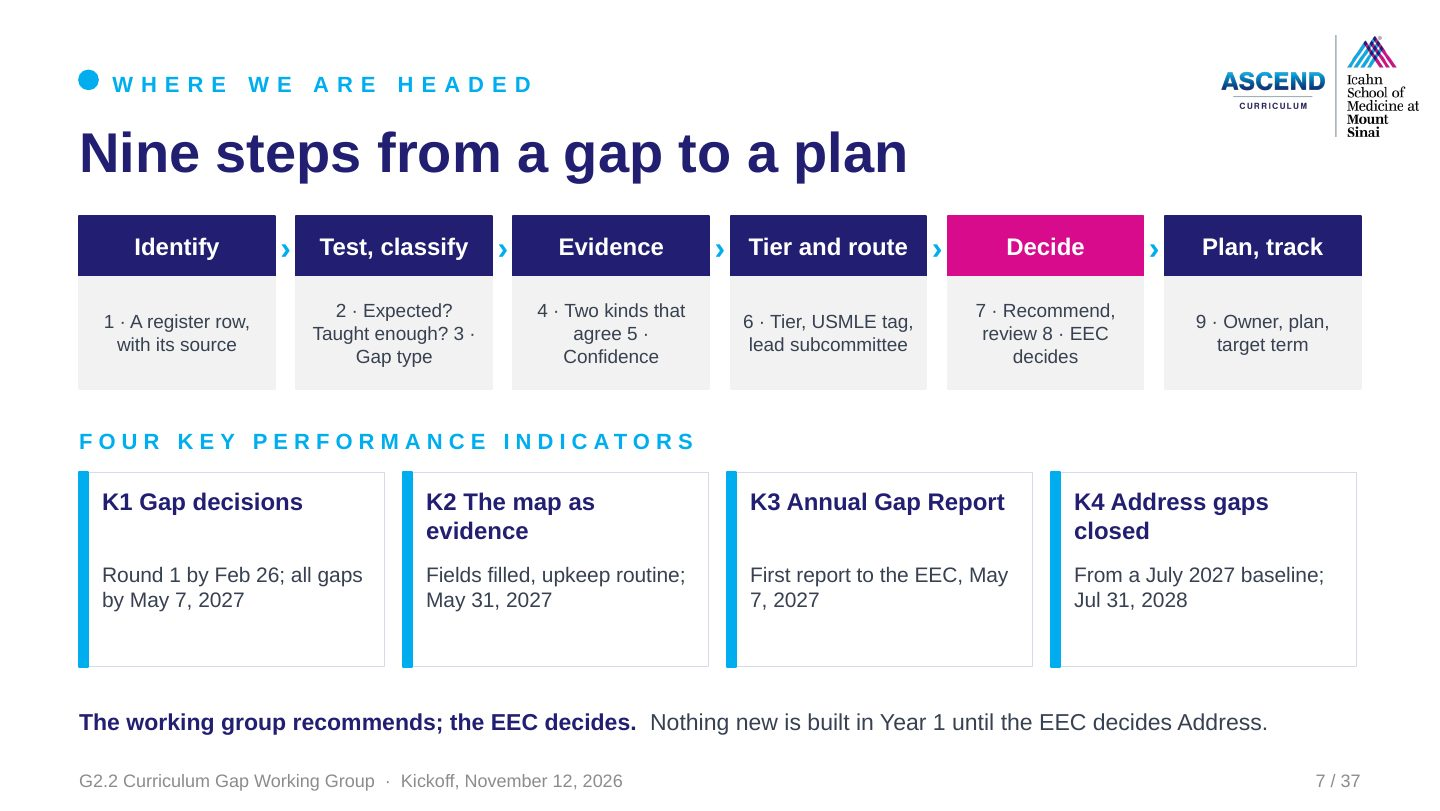
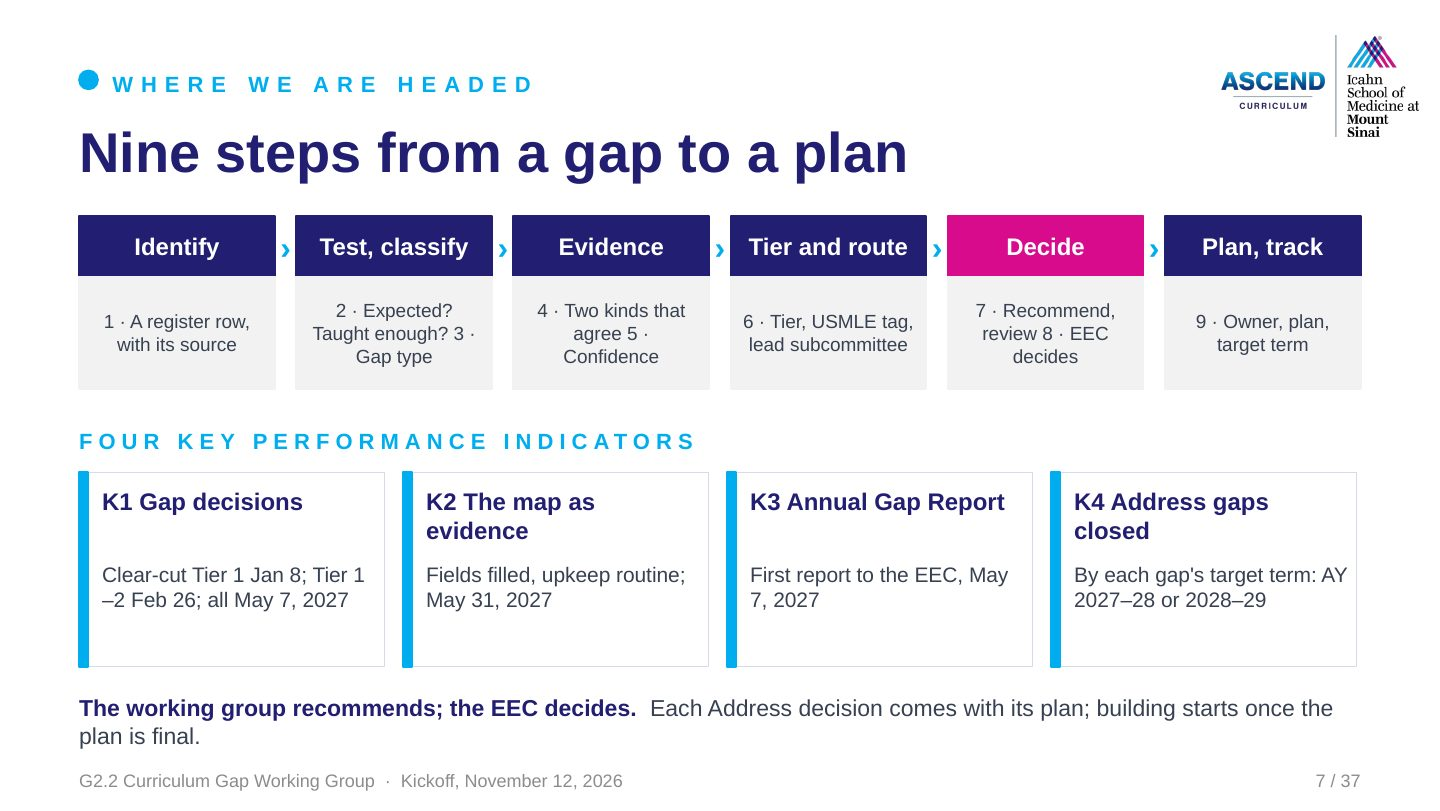
G2.2 kickoff guides: new decision-to-build timeline
Slides 6, 7, 26, 27, 34, 36, 37 and their facilitator notes: clear-cut Tier 1
gaps decided at the Jan 8 EEC meeting (after the December subcommittees), the
rest by e-vote Feb 15-26; each Address decision comes with its plan (round 1
final Mar 31); K4 closed by each gap's target term (AY 2027-28 or 2028-29);
evidence for clear-cut gaps due Dec 1; meeting 2 about Dec 3.
Rebuilt from Styled pages/g22-kickoff-sinai-pptx (build_all.sh) and
tools/kickoff_live_build.py; the shared deck file was rebuilt too.

Claude-Session: https://claude.ai/code/session_01EYE1rF8cjmHzTBuMfk6f8y

Changed region(s): [[0.0312, 0.8631, 0.9375, 0.9248], [0.75, 0.6782, 0.9375, 0.7707], [0.0625, 0.6782, 0.25, 0.7707]]

diff --git a/kickoff-g22/facilitator.html b/kickoff-g22/facilitator.html
@@ -152,8 +152,8 @@ button.rv:disabled{opacity:.6;cursor:wait}
 <section>
 <div class="band"><span class="ic">&#128075;</span><strong>I. Welcome and the Charge</strong><span class="tm">10:00–10:07</span></div>
 <div class="step" id="slide-5"><div class="numrow"><span class="num">Slide 5 of 37</span><button type="button" class="rv" data-n="5">Reveal to members</button></div><figure class="slide"><img src="slides/slide-05.jpg" alt="Slide 5: introductions prompt" loading="lazy"></figure><div class="fac"><div class="say"><span class="tag">Say</span><p>Invite introductions. Note each person&#x27;s gap; any gap not already on the register goes in the brainstorm capture table.</p></div><div class="cues"><div class="cue c-tip"><b>TIP</b>Keep introductions to about 45 seconds each. Gaps not on the register go in the brainstorm capture table.</div></div></div><details class="plain member-sees"><summary>What members see under this slide</summary><div class="box b-turn"><span class="tag">Your turn</span><p>About 45 seconds: your name, your role, and <b>one gap you see in the part of the curriculum you know best</b>. If it is not on the register, it becomes the first entry in the brainstorm.</p></div></details></div>
-<div class="step" id="slide-6"><div class="numrow"><span class="num">Slide 6 of 37</span><button type="button" class="rv" data-n="6">Reveal to members</button></div><figure class="slide"><img src="slides/slide-06.jpg" alt="Slide 6: the Year 1 charge" loading="lazy"></figure><div class="fac"><div class="say"><span class="tag">Say</span><p>Known gaps have had no single owner and no documented decision, so they carry over from one review cycle to the next. Our charge for Year 1 is to give every gap on the register a documented decision through the governance we already have. Two rounds: the Tier 1 and Tier 2 gaps by EEC e-vote in February, and the Monitor gaps at the May 7 EEC, when the first Annual Curriculum Gap Report goes to the EEC. Emphasize: the working group recommends; PCCS, CCS and CIS review; the EEC decides.</p></div><div class="cues"></div></div><details class="plain member-sees"><summary>What members see under this slide</summary><p>In Year 1 every gap on the register gets an owner, evidence, a tier, a USMLE tag, a route and an EEC decision, in two rounds: the Tier 1 and Tier 2 gaps by EEC e-vote, <b>February 15–26, 2027</b>, and the Monitor gaps at the <b>May 7, 2027</b> EEC, with the first Annual Curriculum Gap Report.</p><div class="box b-key"><span class="tag">Key point</span><div class="li"><span class="mk">•</span><div>The working group recommends; PCCS, CCS and CIS review; <mark>the EEC decides</mark>.</div></div><div class="li"><span class="mk">•</span><div>Plans to close Address gaps follow, tracked from July 2027.</div></div></div></details></div>
-<div class="step" id="slide-7"><div class="numrow"><span class="num">Slide 7 of 37</span><button type="button" class="rv" data-n="7">Reveal to members</button></div><figure class="slide"><img src="slides/slide-07.jpg" alt="Slide 7: nine steps from a gap to a plan" loading="lazy"></figure><div class="fac"><div class="say"><span class="tag">Say</span><p>This is the path every gap takes this year, in nine steps. One: it is identified and gets a register row with its source. Two: the gap test, whether we are expected to teach it and how much we teach now. Three: its type. Four and five: its owner gathers two kinds of evidence, and we judge how confident we are; a mapping issue goes to the map team, not to the EEC. Six: a tier, a USMLE tag and the subcommittee that leads it. Seven and eight: the owner drafts a recommendation, the subcommittee reviews it, and the EEC decides Address, Defer or Monitor. Nine: Address gaps get an owner, a plan and a target term, tracked from a July 2027 baseline. The Review steps tab on the dashboard has every step in detail. Our four key performance indicators follow that path: the decisions, the curriculum map as the evidence base, the Annual Curriculum Gap Report, and closing the Address gaps.</p></div><div class="cues"><div class="cue c-tip"><b>TIP</b>About 2 minutes. The picture only; the rules come next.</div></div></div><details class="plain member-sees"><summary>What members see under this slide</summary><p>Every gap follows the same nine steps: 1 identify; 2 the gap test; 3 its type; 4 two kinds of evidence; 5 confidence; 6 tier, USMLE tag and route; 7 recommendation and subcommittee review; 8 the EEC decision; 9 the plan and tracking. The four key performance indicators follow that path. <a href="https://sinaiascend.github.io/Dashboard---Education-to-Impact/#g22/steps" target="_blank" rel="noopener">Each step in detail (dashboard, Review steps)</a>.</p></details></div>
+<div class="step" id="slide-6"><div class="numrow"><span class="num">Slide 6 of 37</span><button type="button" class="rv" data-n="6">Reveal to members</button></div><figure class="slide"><img src="slides/slide-06.jpg" alt="Slide 6: the Year 1 charge" loading="lazy"></figure><div class="fac"><div class="say"><span class="tag">Say</span><p>Known gaps have had no single owner and no documented decision, so they carry over from one review cycle to the next. Our charge for Year 1 is to give every gap on the register a documented decision through the governance we already have. Two rounds: the Tier 1 and Tier 2 gaps first, the clear-cut ones at the January 8 EEC meeting and the rest by EEC e-vote in February, each Address decision with its plan; then the Monitor gaps at the May 7 EEC, when the first Annual Curriculum Gap Report goes to the EEC. Emphasize: the working group recommends; PCCS, CCS and CIS review; the EEC decides.</p></div><div class="cues"></div></div><details class="plain member-sees"><summary>What members see under this slide</summary><p>In Year 1 every gap on the register gets an owner, evidence, a tier, a USMLE tag, a route and an EEC decision, in two rounds: the Tier 1 and Tier 2 gaps by EEC e-vote, <b>February 15–26, 2027</b>, and the Monitor gaps at the <b>May 7, 2027</b> EEC, with the first Annual Curriculum Gap Report.</p><div class="box b-key"><span class="tag">Key point</span><div class="li"><span class="mk">•</span><div>The working group recommends; PCCS, CCS and CIS review; <mark>the EEC decides</mark>.</div></div><div class="li"><span class="mk">•</span><div>Plans to close Address gaps follow, tracked from July 2027.</div></div></div></details></div>
+<div class="step" id="slide-7"><div class="numrow"><span class="num">Slide 7 of 37</span><button type="button" class="rv" data-n="7">Reveal to members</button></div><figure class="slide"><img src="slides/slide-07.jpg" alt="Slide 7: nine steps from a gap to a plan" loading="lazy"></figure><div class="fac"><div class="say"><span class="tag">Say</span><p>This is the path every gap takes this year, in nine steps. One: it is identified and gets a register row with its source. Two: the gap test, whether we are expected to teach it and how much we teach now. Three: its type. Four and five: its owner gathers two kinds of evidence, and we judge how confident we are; a mapping issue goes to the map team, not to the EEC. Six: a tier, a USMLE tag and the subcommittee that leads it. Seven and eight: the owner drafts a recommendation, the subcommittee reviews it, and the EEC decides Address, Defer or Monitor. Nine: Address gaps get an owner, a plan and a target term, approved with the decision; round 1 plans are final by March 31, when building starts, and each gap is closed by its target term. The Review steps tab on the dashboard has every step in detail. Our four key performance indicators follow that path: the decisions, the curriculum map as the evidence base, the Annual Curriculum Gap Report, and closing the Address gaps.</p></div><div class="cues"><div class="cue c-tip"><b>TIP</b>About 2 minutes. The picture only; the rules come next.</div></div></div><details class="plain member-sees"><summary>What members see under this slide</summary><p>Every gap follows the same nine steps: 1 identify; 2 the gap test; 3 its type; 4 two kinds of evidence; 5 confidence; 6 tier, USMLE tag and route; 7 recommendation and subcommittee review; 8 the EEC decision; 9 the plan and tracking. The four key performance indicators follow that path. <a href="https://sinaiascend.github.io/Dashboard---Education-to-Impact/#g22/steps" target="_blank" rel="noopener">Each step in detail (dashboard, Review steps)</a>.</p></details></div>
 </section>
 <section>
 <div class="band"><span class="ic">&#9878;</span><strong>II. The Rules: Gap Test, Evidence, Tiers and Routes</strong><span class="tm">10:07–10:17</span></div>
@@ -176,7 +176,7 @@ button.rv:disabled{opacity:.6;cursor:wait}
 <div class="step" id="slide-24"><div class="numrow"><span class="num">Slide 24 of 37</span><button type="button" class="rv" data-n="24">Reveal to members</button></div><figure class="slide"><img src="slides/slide-24.jpg" alt="Slide 24: Reports from directors and leads: pros and cons" loading="lazy"></figure><div class="fac"><div class="say"><span class="tag">Say</span><p>Reports from directors and AOC and thread leads come from the people closest to the content, who often know the fix and who could teach it. The limits: one viewpoint, which may reflect advocacy, so a report always needs a second kind of evidence. The nutrition gap was flagged by leads and confirmed against the JAMA nutrition competencies.</p></div><div class="cues"></div></div><details class="plain member-sees"><summary>What members see under this slide</summary><p class="skim">Pros and cons for reference; we will move through these quickly.</p><p>A director's report is a valid starting point, but it needs a second kind of evidence to confirm the gap.</p></details></div>
 <div class="step" id="slide-25"><div class="numrow"><span class="num">Slide 25 of 37</span><button type="button" class="rv" data-n="25">Reveal to members</button></div><figure class="slide"><img src="slides/slide-25.jpg" alt="Slide 25: what the October pilot showed" loading="lazy"></figure><div class="fac"><div class="say"><span class="tag">Say</span><p>In October we tested the method on four gaps. Two were confirmed: nutrition, which we now scope to clinical nutrition skills because Step 1 nutrition is above national, and the Emergency Medicine shelf pattern. Two were mapping issues: palliative care preparation and point-of-care ultrasound are taught or experienced but not tagged. The lesson: the map alone over-reports gaps, so every gap gets its two-source check before we triage it.</p></div><div class="cues"></div></div><details class="plain member-sees"><summary>What members see under this slide</summary><div class="box b-note"><span class="tag">Note</span><p>Of four gaps tested in October, two were confirmed (nutrition, the Emergency Medicine shelf pattern) and two were <mark>mapping issues</mark>: the content is taught but not tagged. The two-source check runs before every triage.</p></div></details></div>
 <div class="step" id="slide-26"><div class="numrow"><span class="num">Slide 26 of 37</span><button type="button" class="rv" data-n="26">Reveal to members</button></div><figure class="slide"><img src="slides/slide-26.jpg" alt="Slide 26: tiers and routes" loading="lazy"></figure><div class="fac"><div class="say"><span class="tag">Say</span><p>Only topics LCME Standard 7 names get a tier, ordered by when the standard applies. Tier 1 is required now, plus nutrition, which the USMLE tests and the 2027–28 standard names. Tier 2 is required by 2027–28: AI in medicine and the assessment of professionalism and ethics. Every other gap is Monitor. Tier 1 and Tier 2 are decided by EEC e-vote in February; Monitor gaps at the May 7 EEC. Routing: the USMLE tag decides between PCCS and CCS; clinical-skills gaps go to the Clinical Competency group; CIS reviews only AOC and thread structure; the EEC decides every gap.</p></div><div class="cues"></div></div><details class="plain member-sees"><summary>What members see under this slide</summary><p><b>Tier 1</b>: named in the 2026–27 LCME Standard 7, plus nutrition. <b>Tier 2</b>: named in the 2027–28 Standard 7. <b>Monitor</b>: every other gap. Routing: the USMLE tag decides between PCCS (Step 1) and CCS (Step 2 CK); clinical-skills gaps go to the Clinical Competency group; CIS reviews only AOC and thread structure; the EEC decides every gap.</p></details></div>
-<div class="step" id="slide-27"><div class="numrow"><span class="num">Slide 27 of 37</span><button type="button" class="rv" data-n="27">Reveal to members</button></div><figure class="slide"><img src="slides/slide-27.jpg" alt="Slide 27: Address, Defer or Monitor: proposed status rules" loading="lazy"></figure><div class="fac"><div class="say"><span class="tag">Say</span><p>These are the three decisions the EEC can make, with proposed rules for which one we recommend; we ask the group to confirm them today. Address when the gap is confirmed and on Tier 1 or Tier 2, or when a confirmed Monitor gap shows our students below national or missing a required clinical experience; it needs an owner, a plan and a target term by June 30. Defer when the gap is confirmed but closing it depends on something already scheduled, such as the Nutrition Content Area Director&#x27;s appointment; it needs a reason and a return date. Monitor when we have one kind of evidence only, a national norm only, or outcomes at or above national; it names what to watch and a review date. Mapping issues and unsupported gaps need no decision: a map correction, or removal with the reason.</p></div><div class="cues"><div class="cue c-tip"><b>TIP</b>Ask for agreement on these rules; record changes. They become part of register version 1.</div></div></div><details class="plain member-sees"><summary>What members see under this slide</summary><div class="box b-turn"><span class="tag">For the group to confirm</span><p><b>Address</b>: confirmed, and Tier 1 or Tier 2; or a confirmed Monitor gap where our students score below national or miss a required clinical experience. <b>Defer</b>: confirmed, but closing it depends on a change already scheduled. <b>Monitor</b>: one kind of evidence only, a national norm only, or outcomes at or above national. Mapping issues and unsupported gaps need no decision.</p></div><p>Each decision is recorded with its reason; the EEC decides each gap (definitions in charter Appendix E).</p></details></div>
+<div class="step" id="slide-27"><div class="numrow"><span class="num">Slide 27 of 37</span><button type="button" class="rv" data-n="27">Reveal to members</button></div><figure class="slide"><img src="slides/slide-27.jpg" alt="Slide 27: Address, Defer or Monitor: proposed status rules" loading="lazy"></figure><div class="fac"><div class="say"><span class="tag">Say</span><p>These are the three decisions the EEC can make, with proposed rules for which one we recommend; we ask the group to confirm them today. Address when the gap is confirmed and on Tier 1 or Tier 2, or when a confirmed Monitor gap shows our students below national or missing a required clinical experience; it needs an owner, a plan and a target term, approved with the decision and final by March 31 for round 1. Defer when the gap is confirmed but closing it depends on something already scheduled, such as the Nutrition Content Area Director&#x27;s appointment; it needs a reason and a return date. Monitor when we have one kind of evidence only, a national norm only, or outcomes at or above national; it names what to watch and a review date. Mapping issues and unsupported gaps need no decision: a map correction, or removal with the reason.</p></div><div class="cues"><div class="cue c-tip"><b>TIP</b>Ask for agreement on these rules; record changes. They become part of register version 1.</div></div></div><details class="plain member-sees"><summary>What members see under this slide</summary><div class="box b-turn"><span class="tag">For the group to confirm</span><p><b>Address</b>: confirmed, and Tier 1 or Tier 2; or a confirmed Monitor gap where our students score below national or miss a required clinical experience. <b>Defer</b>: confirmed, but closing it depends on a change already scheduled. <b>Monitor</b>: one kind of evidence only, a national norm only, or outcomes at or above national. Mapping issues and unsupported gaps need no decision.</p></div><p>Each decision is recorded with its reason; the EEC decides each gap (definitions in charter Appendix E).</p></details></div>
 <div class="step" id="slide-28"><div class="numrow"><span class="num">Slide 28 of 37</span><button type="button" class="rv" data-n="28">Reveal to members</button></div><figure class="slide"><img src="slides/slide-28.jpg" alt="Slide 28: how G2.2 and G3.1 fit together" loading="lazy"></figure><div class="fac"><div class="say"><span class="tag">Say</span><p>At its November 4 kickoff the Emerging Topics group sorted its starting list with the same rule; topics it called gaps come to our register. Anything we find is beyond what the standards expect goes the other way, to G3.1, which the same co-leads run.</p></div><div class="cues"></div></div><details class="plain member-sees"><summary>What members see under this slide</summary><div class="box b-note"><span class="tag">Note</span><p>Topics the Emerging Topics group sorted as gaps at its November 4 kickoff come to this register; anything we find is beyond the standards goes to G3.1.</p></div></details></div>
 </section>
 <section>
@@ -227,13 +227,13 @@ button.rv:disabled{opacity:.6;cursor:wait}
 <section>
 <div class="band"><span class="ic">&#128203;</span><strong>V. Owners, the Assignment and the Charter</strong><span class="tm">10:45–10:55</span></div>
 <div class="step" id="slide-33"><div class="numrow"><span class="num">Slide 33 of 37</span><button type="button" class="rv" data-n="33">Reveal to members</button></div><figure class="slide"><img src="slides/slide-33.jpg" alt="Slide 33: what a gap owner does" loading="lazy"></figure><div class="fac"><div class="say"><span class="tag">Say</span><p>Before we confirm owners, what the job is. A gap owner gathers the two kinds of evidence, with the Office of Curricular Affairs pulling the data; confirms the USMLE tag; and drafts a recommendation with its reason. Owning a gap does not mean fixing it: if the EEC decides Address, the plan is made with the module and clerkship directors. Then go back to the Tier 1 and Tier 2 slides and confirm an owner for each and record them.</p></div><div class="cues"><div class="cue c-tip"><b>TIP</b>Go back to slides 29 and 30 and confirm an owner for each Tier 1 and Tier 2 gap.</div></div></div><details class="plain member-sees"><summary>What members see under this slide</summary><p>A gap owner gathers the two kinds of evidence (the Office of Curricular Affairs pulls the data), confirms the USMLE tag and drafts a recommendation. Owning a gap does not mean fixing it: plans to close Address gaps are made with module and clerkship directors.</p></details></div>
-<div class="step" id="slide-34"><div class="numrow"><span class="num">Slide 34 of 37</span><button type="button" class="rv" data-n="34">Reveal to members</button></div><figure class="slide"><img src="slides/slide-34.jpg" alt="Slide 34: your assignment" loading="lazy"></figure><div class="fac"><div class="say"><span class="tag">Say</span><p>Three deadlines. Within one week, confirm your gaps: reply to Mizuki Wada with the gaps you own and anything you would add or move, with its source. By the December meeting, say which two kinds of evidence you will use for each gap you own and ask the Office of Curricular Affairs for any data pulls. By January 15, complete the evidence and the USMLE tag and draft a recommendation for each Tier 1 and Tier 2 gap you own; we triage them at the meeting around January 20, before the February subcommittee meetings.</p></div><div class="cues"><div class="cue c-tip"><b>TIP</b>Confirm the December meeting date before reading the deadlines.</div></div></div><details class="plain member-sees"><summary>What members see under this slide</summary><p>Three deadlines.</p><p><b>Within one week of the kickoff:</b></p><div class="ck"><span class="mk">&#9744;</span><div><b>Confirm your gaps.</b> Reply to Mizuki Wada with the gaps you own, and any gap you would add or move, with its source.</div></div><p style="margin-top:10px"><b>Before the December meeting:</b></p><div class="ck"><span class="mk">&#9744;</span><div><b>Plan the evidence.</b> For each gap you own, name the two kinds of evidence you will use.</div></div><div class="ck"><span class="mk">&#9744;</span><div><b>Ask for data.</b> Request any data pulls from the Office of Curricular Affairs (aggregate data only).</div></div><p style="margin-top:10px"><b>By January 15, 2027:</b></p><div class="ck"><span class="mk">&#9744;</span><div><b>Complete the evidence.</b> Two kinds of evidence for each Tier 1 and Tier 2 gap you own.</div></div><div class="ck"><span class="mk">&#9744;</span><div><b>Tag and recommend.</b> Confirm the USMLE tag and draft a recommendation (Address, Defer or Monitor, with the reason). The group triages them at the meeting around January 20.</div></div></details></div>
+<div class="step" id="slide-34"><div class="numrow"><span class="num">Slide 34 of 37</span><button type="button" class="rv" data-n="34">Reveal to members</button></div><figure class="slide"><img src="slides/slide-34.jpg" alt="Slide 34: your assignment" loading="lazy"></figure><div class="fac"><div class="say"><span class="tag">Say</span><p>Three deadlines. Within one week, confirm your gaps: reply to Mizuki Wada with the gaps you own and anything you would add or move, with its source. By December 1, owners of the clear-cut Tier 1 gaps bring the evidence and a draft Address plan, so those gaps can go to the December subcommittee meetings and the January 8 EEC; ask the Office of Curricular Affairs for any data pulls by then. By January 15, complete the evidence, the USMLE tag, a recommendation and a draft Address plan for each other Tier 1 and Tier 2 gap you own; we triage them at the meeting around January 20, before the February subcommittee meetings.</p></div><div class="cues"><div class="cue c-tip"><b>TIP</b>Confirm the December meeting date before reading the deadlines.</div></div></div><details class="plain member-sees"><summary>What members see under this slide</summary><p>Three deadlines.</p><p><b>Within one week of the kickoff:</b></p><div class="ck"><span class="mk">&#9744;</span><div><b>Confirm your gaps.</b> Reply to Mizuki Wada with the gaps you own, and any gap you would add or move, with its source.</div></div><p style="margin-top:10px"><b>Before the December meeting:</b></p><div class="ck"><span class="mk">&#9744;</span><div><b>Plan the evidence.</b> For each gap you own, name the two kinds of evidence you will use.</div></div><div class="ck"><span class="mk">&#9744;</span><div><b>Ask for data.</b> Request any data pulls from the Office of Curricular Affairs (aggregate data only).</div></div><p style="margin-top:10px"><b>By January 15, 2027:</b></p><div class="ck"><span class="mk">&#9744;</span><div><b>Complete the evidence.</b> Two kinds of evidence for each Tier 1 and Tier 2 gap you own.</div></div><div class="ck"><span class="mk">&#9744;</span><div><b>Tag and recommend.</b> Confirm the USMLE tag and draft a recommendation (Address, Defer or Monitor, with the reason). The group triages them at the meeting around January 20.</div></div></details></div>
 <div class="step" id="slide-35"><div class="numrow"><span class="num">Slide 35 of 37</span><button type="button" class="rv" data-n="35">Reveal to members</button></div><figure class="slide"><img src="slides/slide-35.jpg" alt="Slide 35: the charter: what it commits us to" loading="lazy"></figure><div class="fac"><div class="say"><span class="tag">Say</span><p>The charter went to the plan&#x27;s Change Log on November 13 and is on the G2.2 page of the dashboard. It follows the plan&#x27;s standard outline: eleven sections and eight appendices. Look first at your own row in the members section, which says what you own, and at Appendix D, the register we just walked. Appendices A to C hold the rules we used today. Send any comments to Mizuki Wada; changes to the charter or the KPIs go through the Change Log.</p></div><div class="cues"></div></div><details class="plain member-sees"><summary>What members see under this slide</summary><p><a class="chlink" href="https://sinaiascend.github.io/Dashboard---Education-to-Impact/docs/g22-charter.html" target="_blank" rel="noopener">&#128196; Read the charter</a></p><p>The charter follows the plan's standard outline: eleven sections and eight appendices. Look first at your own row in section 7 (what you own) and at Appendix D (the register). Comments go to Mizuki Wada; changes to the charter or the KPIs go through the plan's Change Log.</p></details></div>
 </section>
 <section>
 <div class="band"><span class="ic">&#9989;</span><strong>VI. Wrap-up and What Comes Next</strong><span class="tm">10:55–11:00</span></div>
-<div class="step" id="slide-36"><div class="numrow"><span class="num">Slide 36 of 37</span><button type="button" class="rv" data-n="36">Reveal to members</button></div><figure class="slide"><img src="slides/slide-36.jpg" alt="Slide 36: roadmap to the May EEC" loading="lazy"></figure><div class="fac"><div class="say"><span class="tag">Say</span><p>Each meeting ends at a fixed point, and the work between meetings produces what the next one needs. Today&#x27;s register and owners feed the evidence due January 15, which feeds the February subcommittee meetings and the EEC e-vote. After Year 1, the Annual Curriculum Gap Report keeps gaps visible every year.</p></div><div class="cues"></div></div><details class="plain member-sees"><summary>What members see under this slide</summary><p>Each meeting ends at a fixed point, and the work between meetings produces what the next one needs. Today's register and owners feed the evidence due January 15, which feeds the February subcommittee meetings and the EEC e-vote.</p></details></div>
-<div class="step" id="slide-37"><div class="numrow"><span class="num">Slide 37 of 37</span><button type="button" class="rv" data-n="37">Reveal to members</button></div><figure class="slide"><img src="slides/slide-37.jpg" alt="Slide 37: decisions and next meeting" loading="lazy"></figure><div class="fac"><div class="say"><span class="tag">Say</span><p>Read back the decisions, then each action with one owner and one date, and confirm the December meeting date. Close: In December we hear each owner&#x27;s evidence plan and welcome the Nutrition Content Area Director.</p></div><div class="cues"><div class="cue c-tip"><b>TIP</b>Read back each action with one owner and one date. Confirm the December date.</div></div></div></div>
+<div class="step" id="slide-36"><div class="numrow"><span class="num">Slide 36 of 37</span><button type="button" class="rv" data-n="36">Reveal to members</button></div><figure class="slide"><img src="slides/slide-36.jpg" alt="Slide 36: roadmap to the May EEC" loading="lazy"></figure><div class="fac"><div class="say"><span class="tag">Say</span><p>Each meeting ends at a fixed point, and the work between meetings produces what the next one needs. Today&#x27;s register and owners feed the clear-cut gaps&#x27; evidence due December 1, decided at the January 8 EEC, and the rest of the evidence due January 15, which feeds the February subcommittee meetings and the EEC e-vote. Round 1 Address plans are final by March 31, when building starts. After Year 1, the Annual Curriculum Gap Report keeps gaps visible every year.</p></div><div class="cues"></div></div><details class="plain member-sees"><summary>What members see under this slide</summary><p>Each meeting ends at a fixed point, and the work between meetings produces what the next one needs. Today's register and owners feed the evidence due January 15, which feeds the February subcommittee meetings and the EEC e-vote.</p></details></div>
+<div class="step" id="slide-37"><div class="numrow"><span class="num">Slide 37 of 37</span><button type="button" class="rv" data-n="37">Reveal to members</button></div><figure class="slide"><img src="slides/slide-37.jpg" alt="Slide 37: decisions and next meeting" loading="lazy"></figure><div class="fac"><div class="say"><span class="tag">Say</span><p>Read back the decisions, then each action with one owner and one date, and confirm the December meeting date. Close: Around December 3 we confirm the clear-cut Tier 1 gaps and send them to the December subcommittees, and welcome the Nutrition Content Area Director.</p></div><div class="cues"><div class="cue c-tip"><b>TIP</b>Read back each action with one owner and one date. Confirm the December date.</div></div></div></div>
 </section>
 <h2 class="appx">During the meeting: sort sheet</h2><section><p>Record the group's call next to each gap: confirmed, tier or route changed, mapping issue, moved to G3.1, or dropped; and the owner.</p><div class="tw"><table>
 <tr><td>#</td><td>Gap</td><td>Tier</td><td>Route</td><td>Proposed owner</td><td>Group's call</td></tr>
